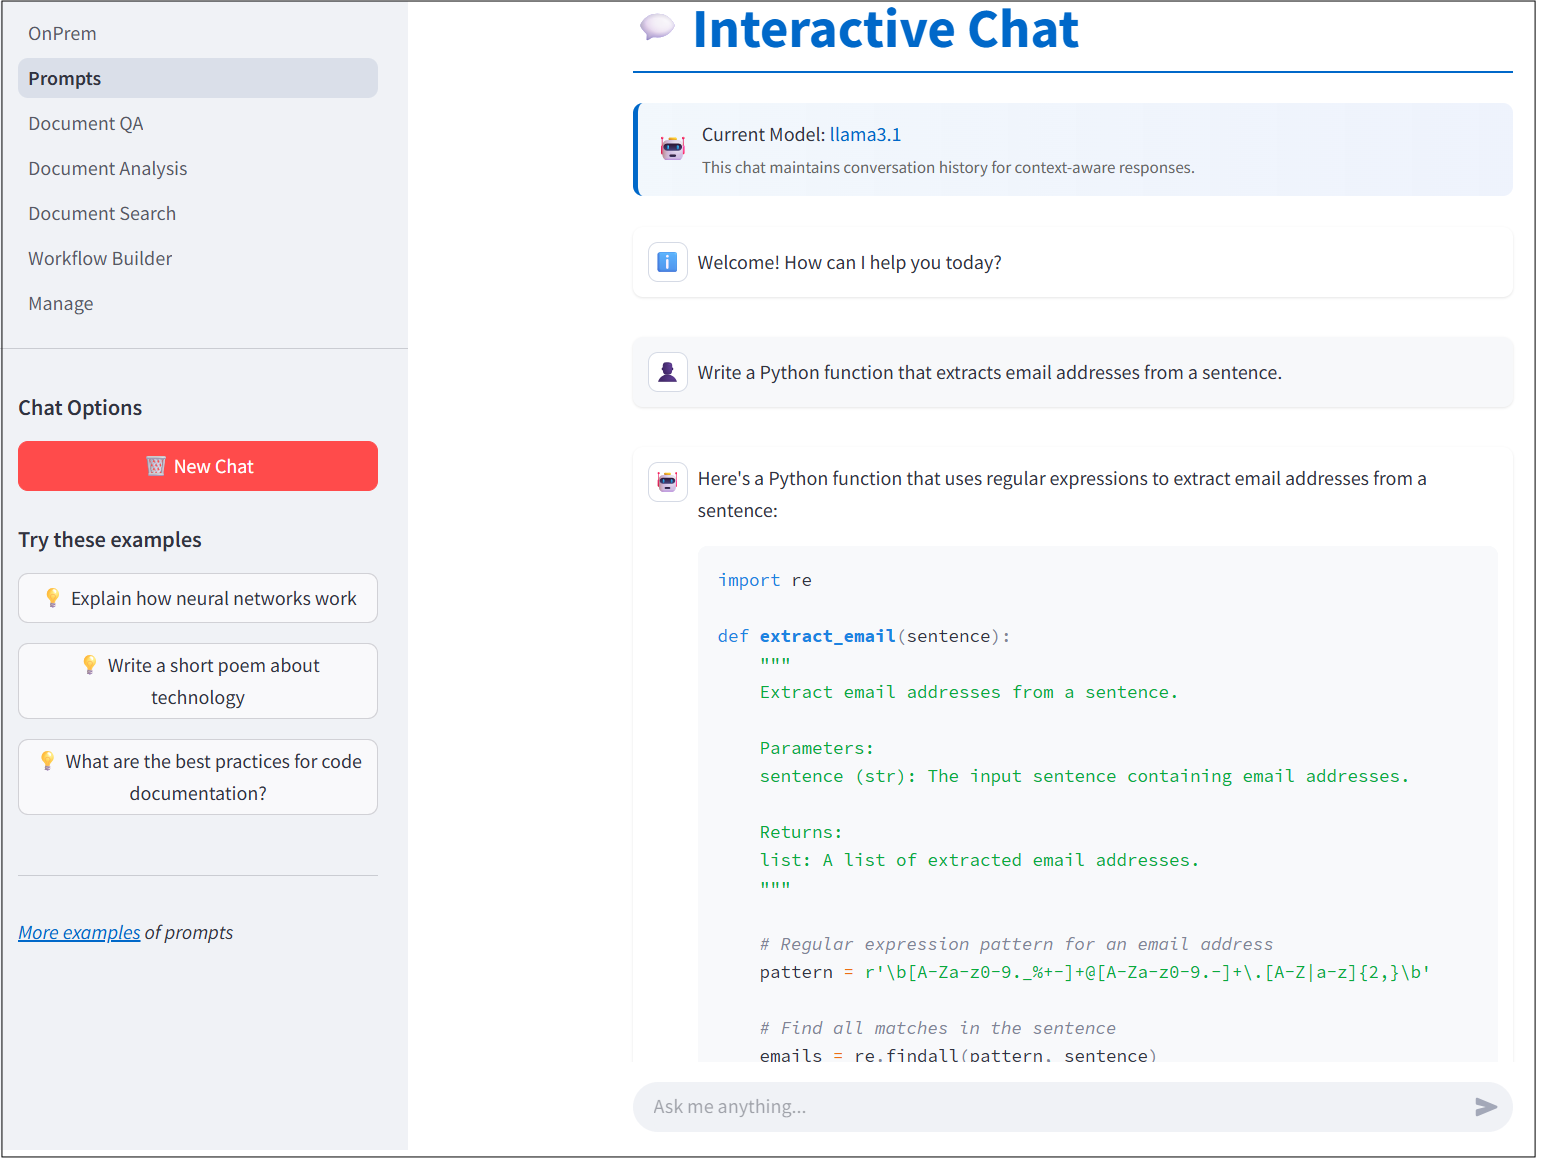
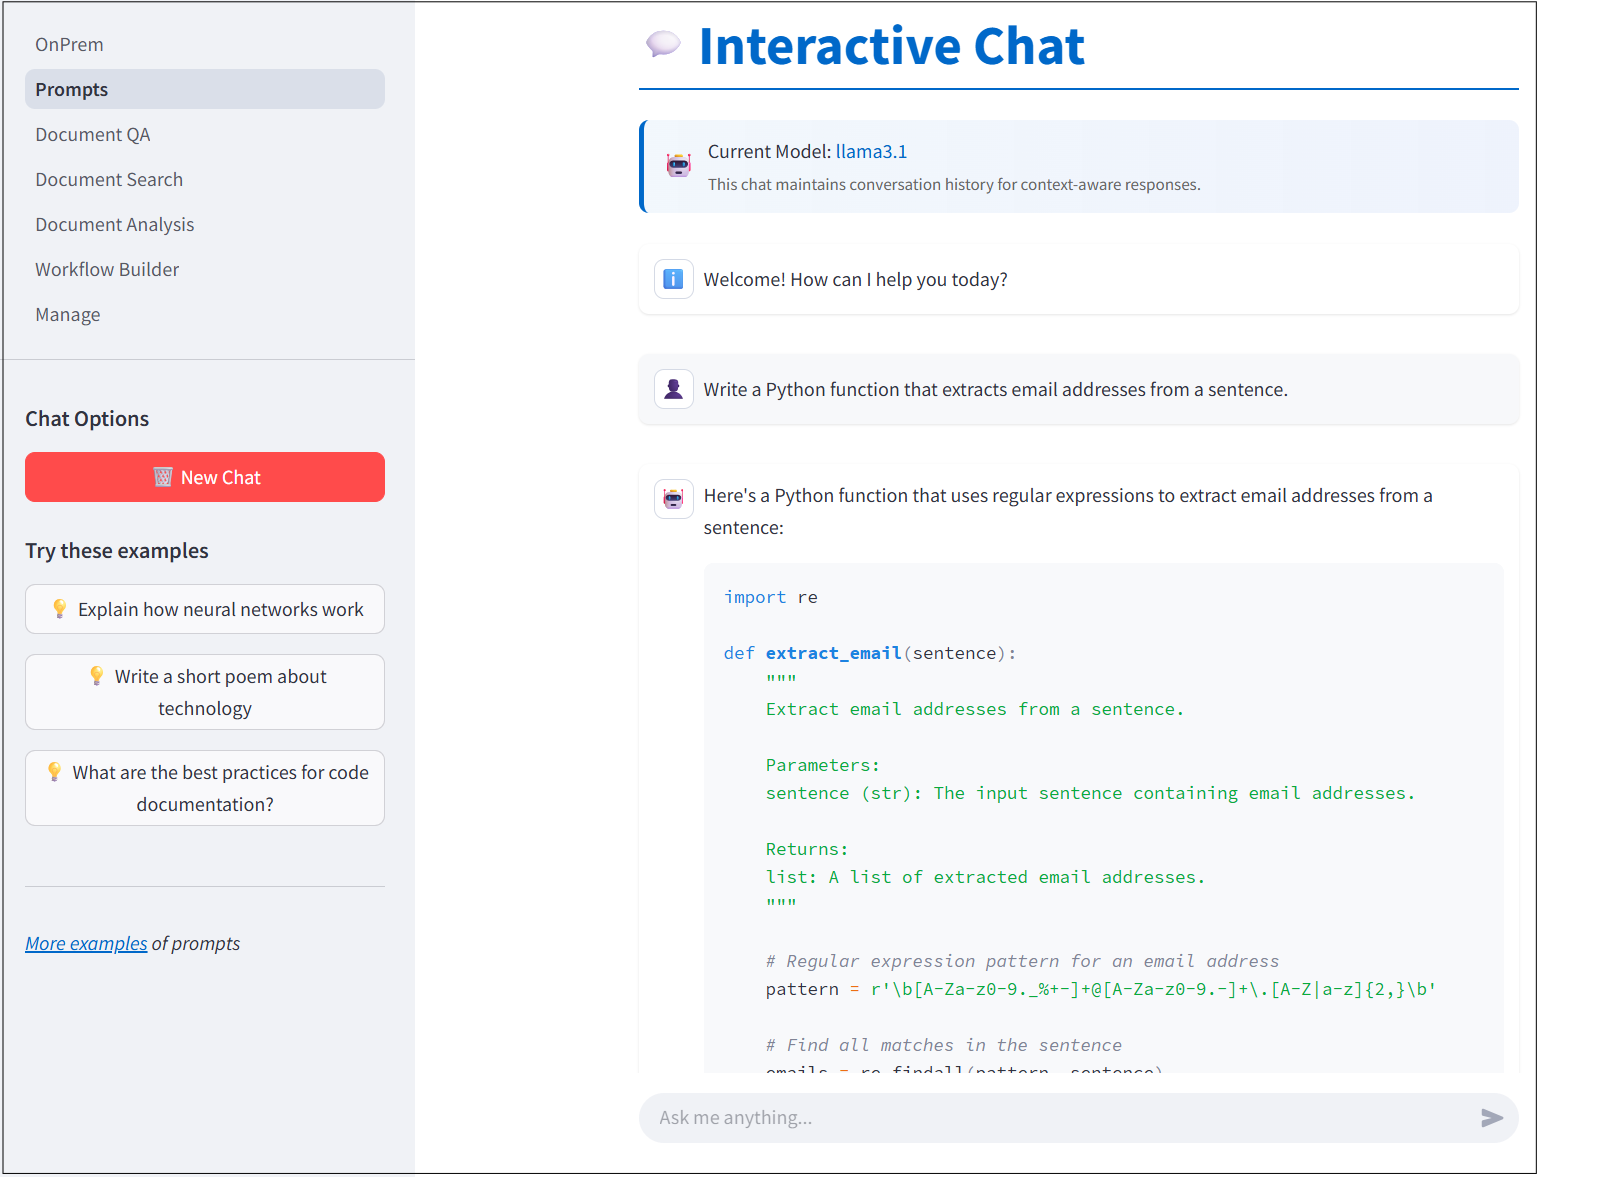
new screenshots and change order of pages

diff --git a/onprem/app/OnPrem.py b/onprem/app/OnPrem.py
@@ -127,8 +127,8 @@ def main():
     
     1. **Use Prompts to Solve Problems**: Submit prompts directly to the LLM model
     2. **Talk to Your Documents**: Ask questions about your documents using RAG technology
-    3. **Document Analysis**: Apply custom prompts to document chunks and export results
-    4. **Search Documents**: Search through your indexed documents using keywords or semantic search
+    3. **Search Documents**: Search through your indexed documents using keywords or semantic search
+    4. **Document Analysis**: Apply custom prompts to document chunks and export results
     5. **Workflow Builder**: Create complex multi-step document processing workflows visually
     6. **Manage**: Upload documents, manage folders, and configure the application settings
     
